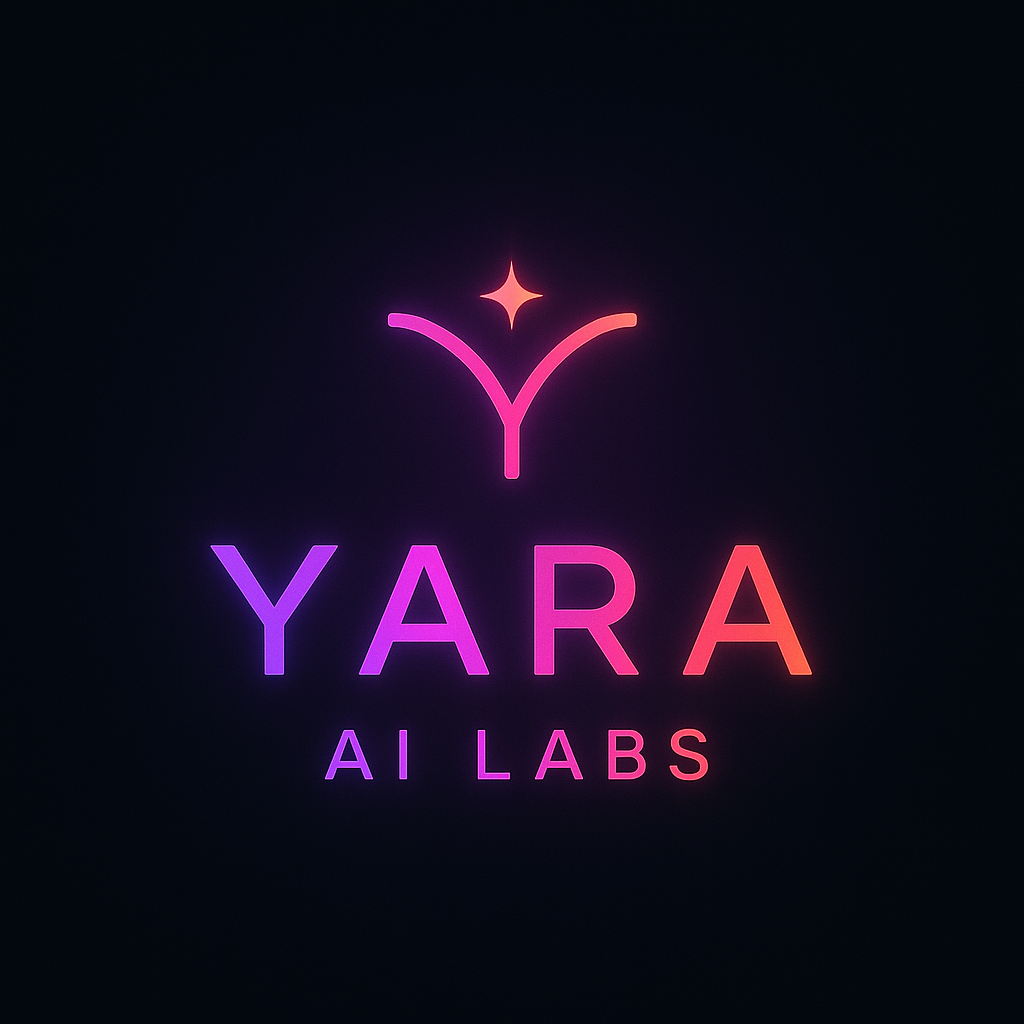
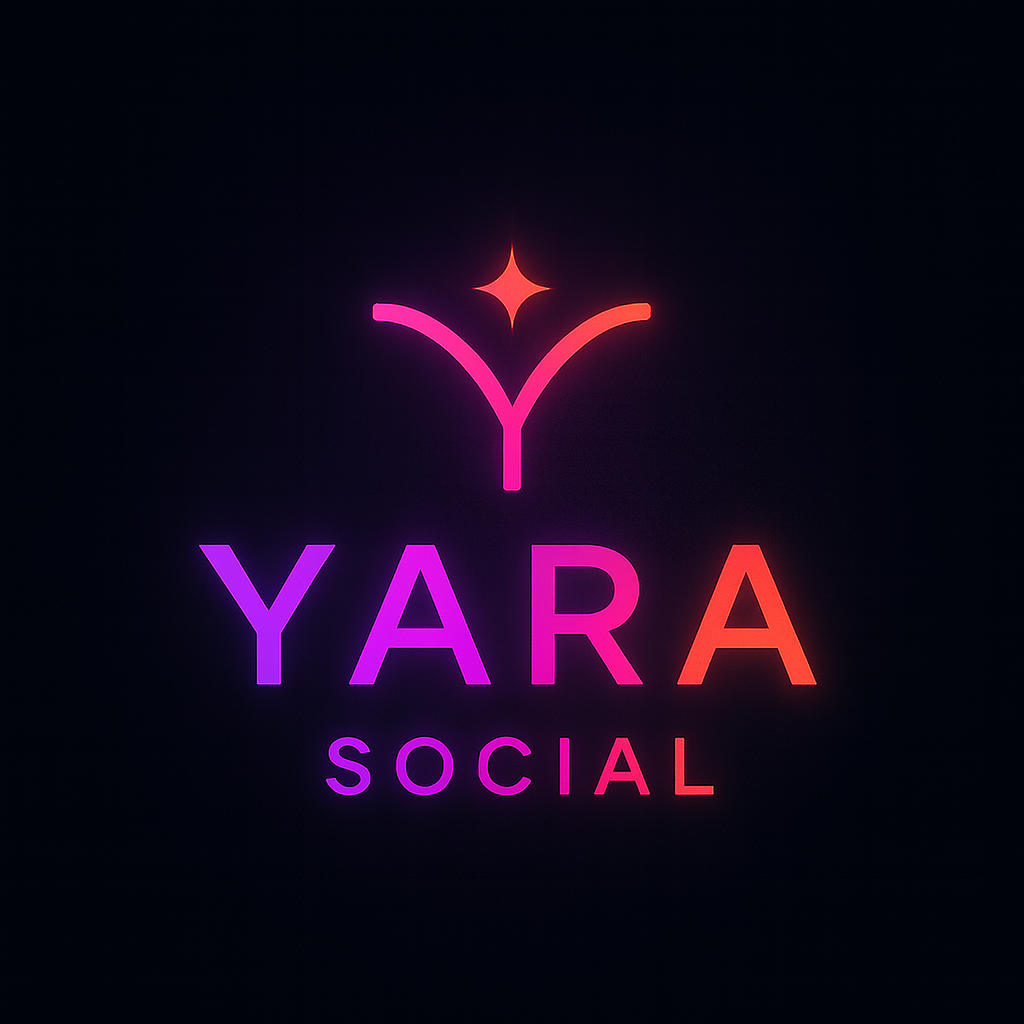
update yara stuff

diff --git a/index.html b/index.html
@@ -3,24 +3,24 @@
   <head>
     <meta charset="UTF-8" />
     <meta name="viewport" content="width=device-width, initial-scale=1.0" />
-    <title>Yara AI Labs | Relationship-Intelligent Tools for Creators</title>
+    <title>Yara Social | Relationship-Intelligent Tools for Creators</title>
     <meta
       name="description"
-      content="Yara AI Labs helps independent creators — including those distributing premium and adult content — manage fan conversations with authentic AI."
+      content="Yara Social helps independent creators — including those distributing premium and adult content — manage fan conversations with authentic AI."
     />
     <meta property="og:type" content="website" />
     <meta property="og:url" content="https://yaralabs.ai" />
-    <meta property="og:title" content="Yara AI Labs" />
+    <meta property="og:title" content="Yara Social" />
     <meta
       property="og:description"
       content="Scale your audience, not your inbox. Relationship-intelligent AI for direct-to-fan and adult-content creators."
     />
     <meta property="og:image" content="assets/yara-long.png" />
     <meta name="twitter:card" content="summary_large_image" />
-    <meta name="twitter:title" content="Yara AI Labs" />
+    <meta name="twitter:title" content="Yara Social" />
     <meta
       name="twitter:description"
-      content="Yara AI Labs keeps every fan interaction personal while you focus on your art."
+      content="Yara Social keeps every fan interaction personal while you focus on your art."
     />
     <meta name="twitter:image" content="assets/yara-long.png" />
     <link rel="icon" type="image/svg+xml" href="assets/logo-glow.svg" />
@@ -81,7 +81,7 @@
 
     <main class="relative min-h-screen">
       <header class="px-6 md:px-12 lg:px-20 pt-10 pb-6 flex items-center justify-between">
-        <p class="text-sm uppercase tracking-[0.3em] text-white/70">Yara AI Labs</p>
+        <p class="text-sm uppercase tracking-[0.3em] text-white/70">Yara Social</p>
         <a
           href="mailto:gitavahdatinia@gmail.com"
           class="inline-flex items-center gap-2 text-sm font-semibold text-white hover:text-pink-200 transition-colors"
@@ -102,7 +102,7 @@
               not your inbox.
             </h1>
             <p class="text-lg md:text-xl text-white/80 max-w-2xl">
-              Yara AI Labs helps independent creators manage fan conversations and engagement with AI that sounds like you. Purpose-built for those who distribute premium or adult content and need every interaction to feel intentional.
+              Yara Social helps independent creators manage fan conversations and engagement with AI that sounds like you. Purpose-built for those who distribute premium or adult content and need every interaction to feel intentional.
             </p>
             <div class="flex flex-col gap-4 max-w-xl">
               <button
@@ -119,7 +119,7 @@
           </div>
           <div class="relative hidden md:flex justify-center">
             <div class="absolute inset-0 bg-gradient-to-r from-accent-start/40 to-accent-end/40 blur-3xl opacity-60"></div>
-            <img src="assets/yara-long.png" alt="Yara AI Labs neon logotype" class="relative w-full max-w-md drop-shadow-2xl" />
+            <img src="assets/yara-long.png" alt="Yara Social neon logotype" class="relative w-full max-w-md drop-shadow-2xl" />
           </div>
         </div>
       </section>
@@ -130,7 +130,7 @@
             <div class="bg-white/5 rounded-3xl p-8 md:p-12 backdrop-blur">
               <h2 class="text-2xl md:text-3xl font-semibold mb-6">About Yara</h2>
               <p class="text-white/80 text-lg leading-relaxed">
-                Yara AI Labs builds relationship-intelligent tools for creators who connect directly with their audiences, including those monetizing adult content on subscription platforms. Our mission: make personal engagement sustainable as you grow.
+                Yara builds relationship-intelligent tools for creators who connect directly with their audiences, including those monetizing adult content on subscription platforms. Our mission: make personal engagement sustainable as you grow.
               </p>
             </div>
           </div>
@@ -255,7 +255,7 @@
 
     <footer class="px-6 md:px-12 lg:px-20 py-10 border-t border-white/10 mt-10">
       <div class="flex flex-col md:flex-row items-start md:items-center justify-between gap-6 text-sm text-white/70">
-        <p>© 2025 Yara AI Labs. All rights reserved.</p>
+        <p>© 2025 Yara Social. All rights reserved.</p>
         <div class="flex flex-wrap gap-6">
           <a href="mailto:gitavahdatinia@gmail.com" class="hover:text-white transition-colors">Email</a>
         </div>
